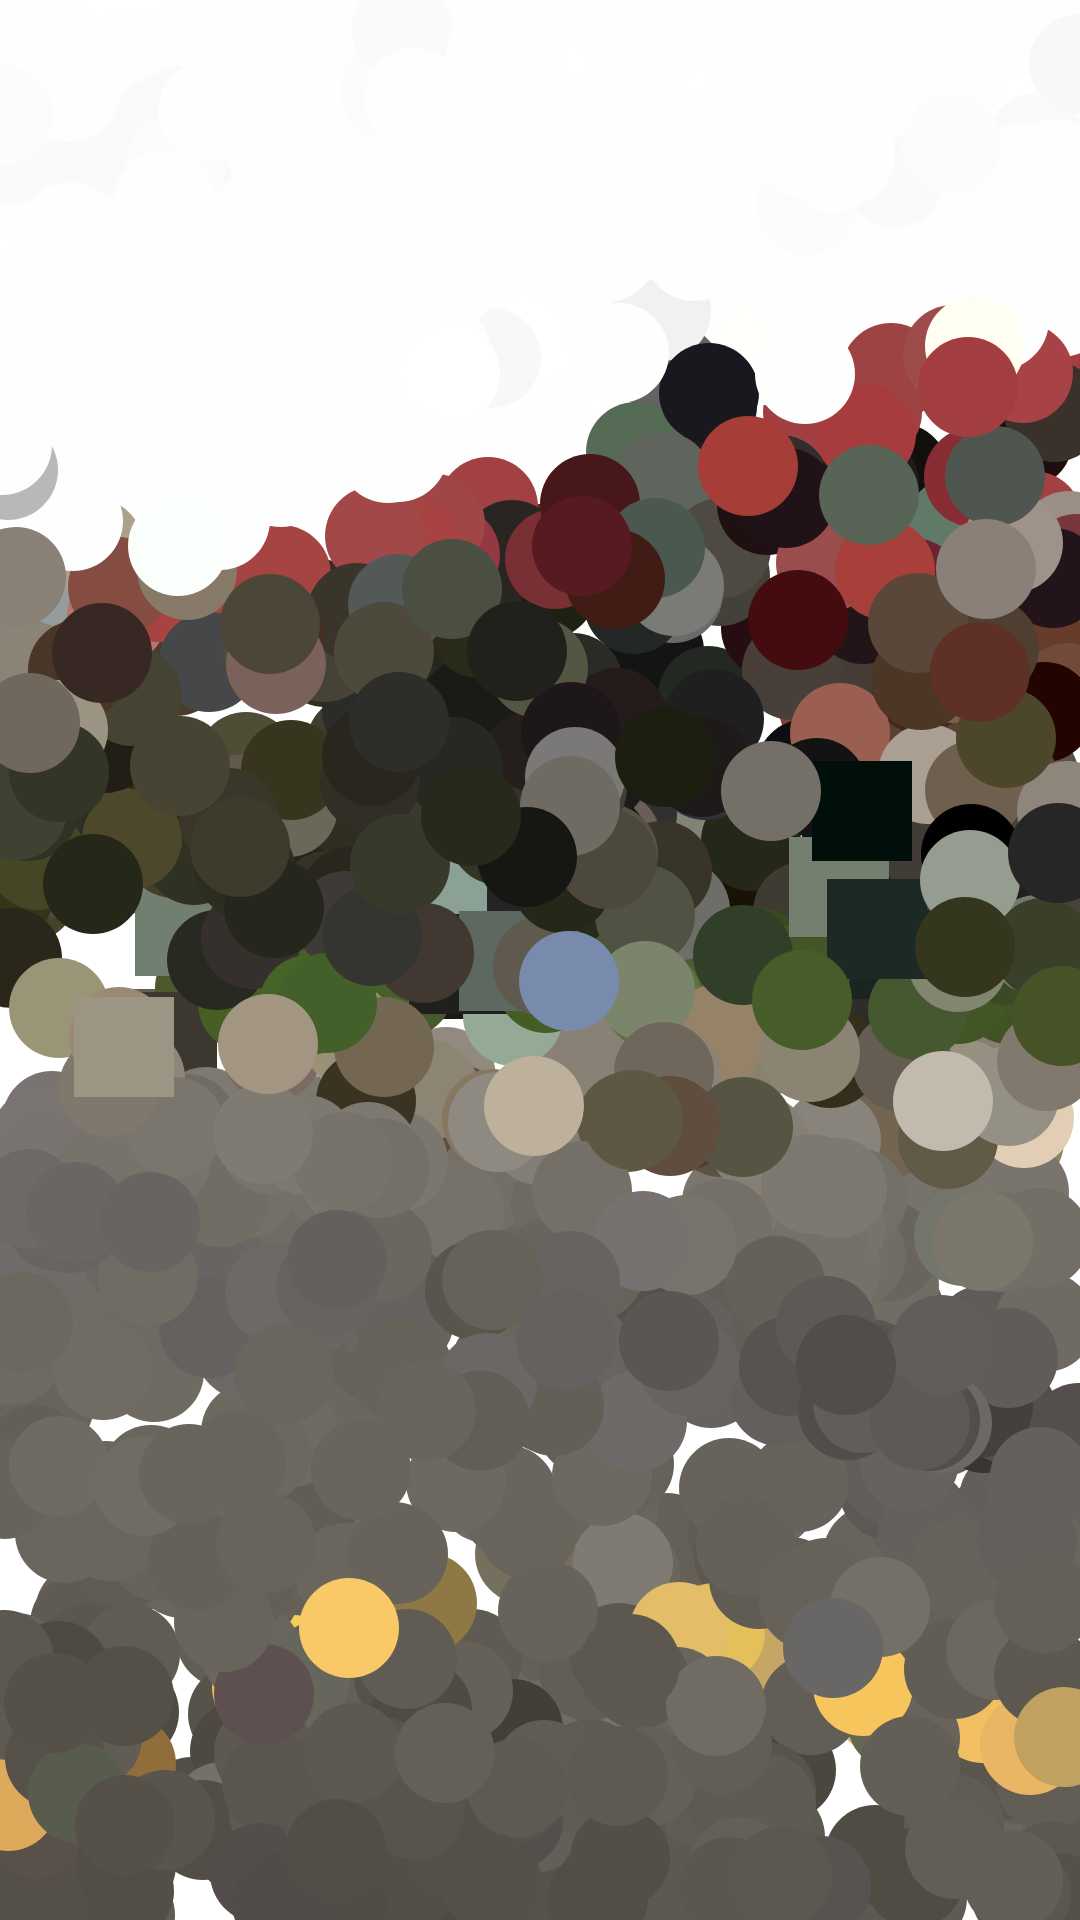
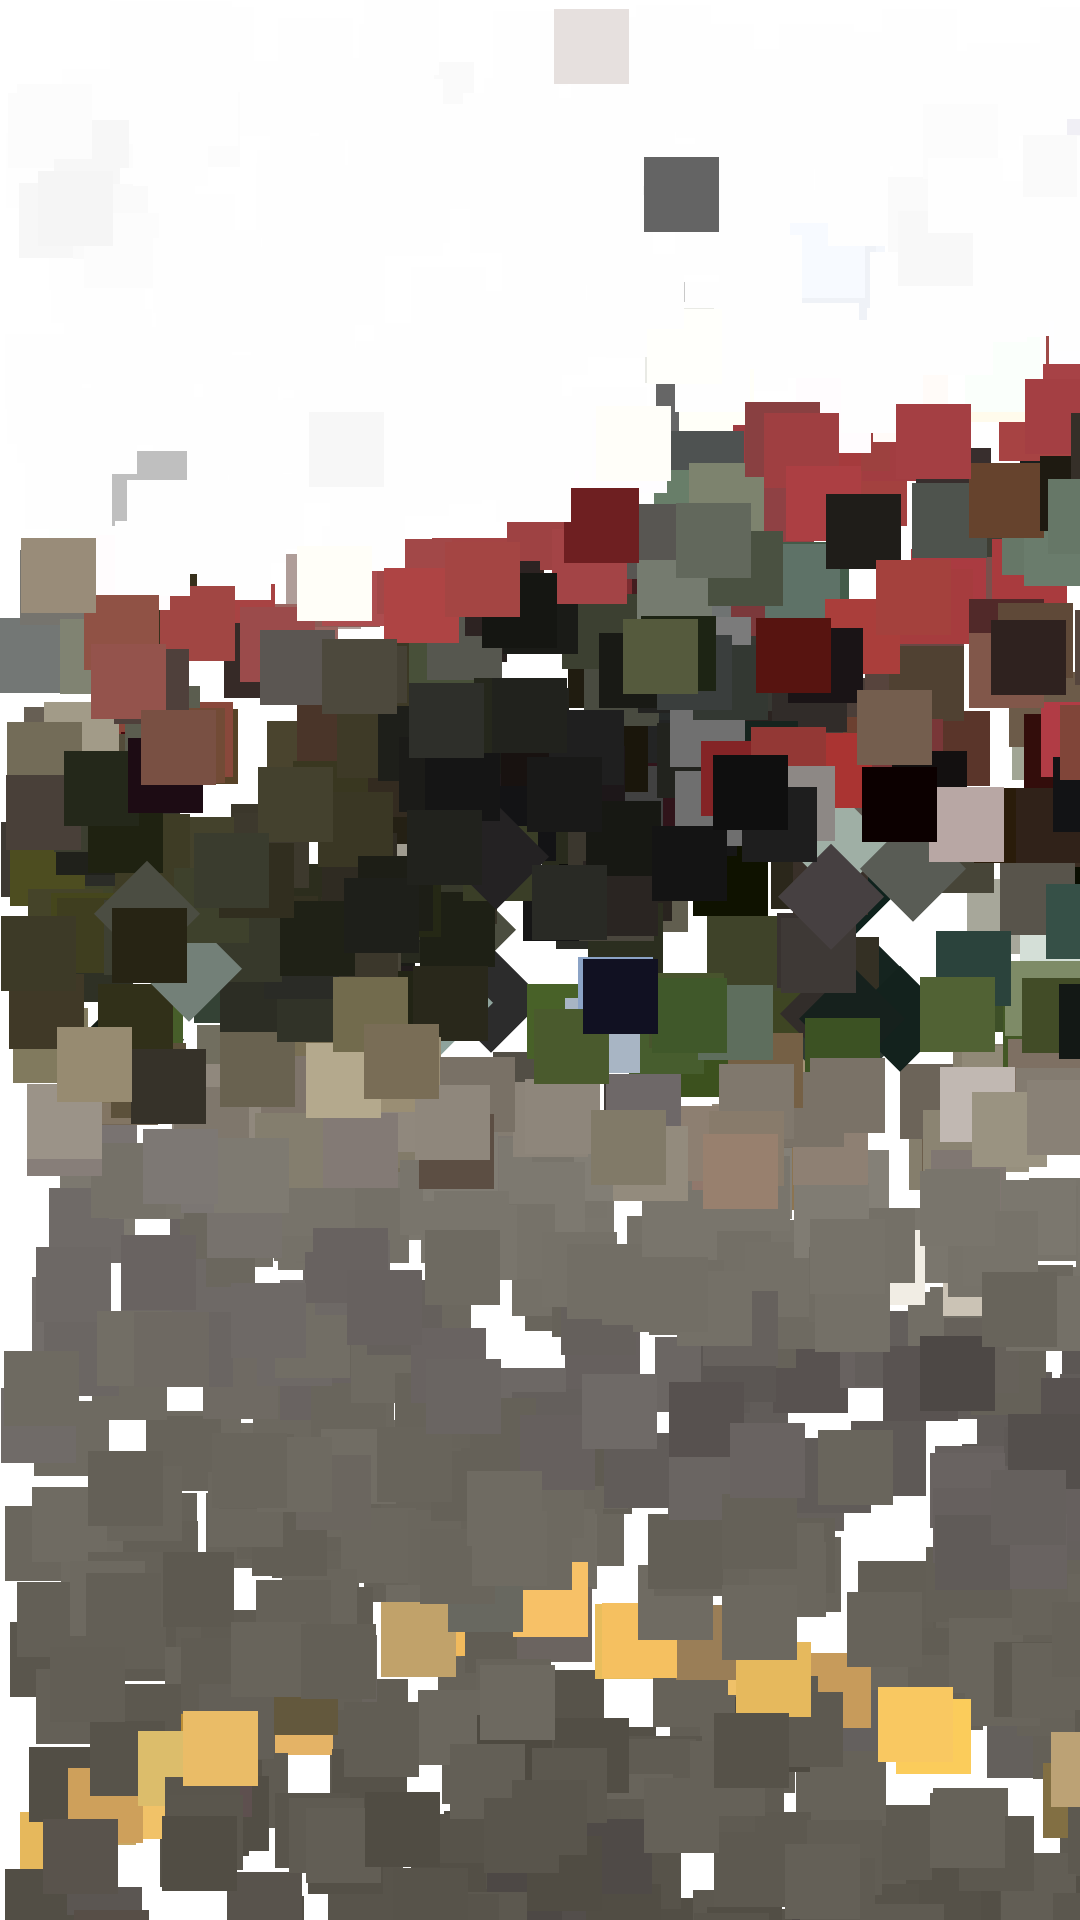
Updated Artwork and changed sizes

diff --git a/sketch.js b/sketch.js
@@ -24,8 +24,8 @@ function draw () {
     let y = floor(random(sourceImg.height));
     let pix = sourceImg.get(x, y);
     let mask = maskImg.get(x, y);
-    let pointSize = 100;
-    let halfSize = 50;
+    let pointSize = 75;
+    let halfSize = 37;
     fill(pix);
     if(mask[0] > 128) {
       rect(x, y, pointSize, pointSize);
